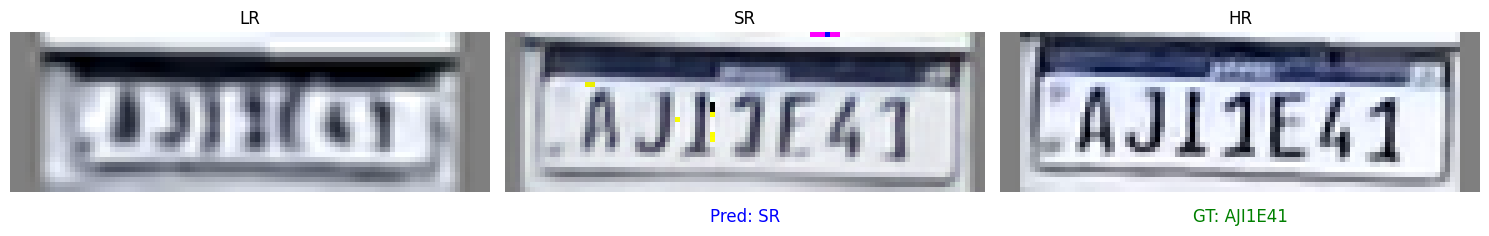
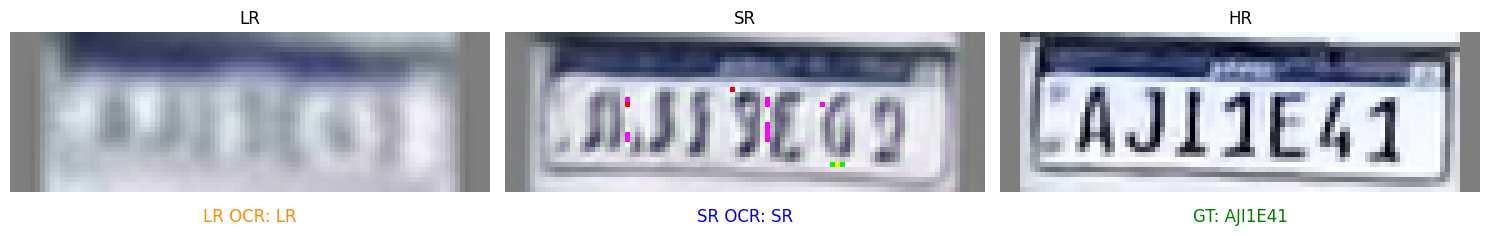
NRCD over-degradation fixed

diff --git a/datasets/wrappers.py b/datasets/wrappers.py
@@ -106,14 +106,105 @@ def get_pts(file_path):
         return json.load(j)['shapes'][0]['points']
 
 
+def _sample_projection_offsets(horizontal_angle_deg, vertical_angle_deg):
+    max_ratio_x = float(np.clip(np.tan(np.deg2rad(max(horizontal_angle_deg, 0.0))), 0.0, 0.55))
+    max_ratio_y = float(np.clip(np.tan(np.deg2rad(max(vertical_angle_deg, 0.0))), 0.0, 0.35))
+    if max_ratio_x <= 0 and max_ratio_y <= 0:
+        return None
+
+    left_inset = 0.0
+    right_inset = 0.0
+    top_inset = 0.0
+    bottom_inset = 0.0
+
+    if max_ratio_x > 0:
+        horizontal_mag = random.uniform(0.0, max_ratio_x)
+        if random.random() < 0.5:
+            left_inset = horizontal_mag
+        else:
+            right_inset = horizontal_mag
+
+    if max_ratio_y > 0:
+        vertical_mag = random.uniform(0.0, max_ratio_y)
+        if random.random() < 0.5:
+            top_inset = vertical_mag
+        else:
+            bottom_inset = vertical_mag
+
+    return np.array(
+        [
+            [left_inset, top_inset],
+            [1.0 - right_inset, top_inset],
+            [1.0 - right_inset, 1.0 - bottom_inset],
+            [left_inset, 1.0 - bottom_inset],
+        ],
+        dtype=np.float32,
+    )
+
+
+def _apply_projection_transform(img, mask, normalized_dst, fill_color):
+    if normalized_dst is None:
+        return img, mask
+
+    height, width = img.shape[:2]
+    if height <= 1 or width <= 1:
+        return img, mask
+
+    src = np.array(
+        [
+            [0, 0],
+            [width - 1, 0],
+            [width - 1, height - 1],
+            [0, height - 1],
+        ],
+        dtype=np.float32,
+    )
+    scale = np.array([width - 1, height - 1], dtype=np.float32)
+    dst = normalized_dst * scale
+
+    matrix = cv2.getPerspectiveTransform(src, dst.astype(np.float32))
+    warped_img = cv2.warpPerspective(
+        img,
+        matrix,
+        (width, height),
+        flags=cv2.INTER_LINEAR,
+        borderMode=cv2.BORDER_CONSTANT,
+        borderValue=fill_color,
+    )
+    warped_mask = cv2.warpPerspective(
+        mask,
+        matrix,
+        (width, height),
+        flags=cv2.INTER_NEAREST,
+        borderMode=cv2.BORDER_CONSTANT,
+        borderValue=0,
+    )
+    return warped_img, warped_mask
+
+
 class _BaseLPWrapper(Dataset):
-    def __init__(self, imgW, imgH, aug, image_aspect_ratio, background, scale=2, dataset=None):
+    def __init__(
+        self,
+        imgW,
+        imgH,
+        aug,
+        image_aspect_ratio,
+        background,
+        scale=2,
+        projection_prob=0.0,
+        projection_horizontal_angle=0.0,
+        projection_vertical_angle=0.0,
+        dataset=None,
+    ):
         self.imgW = imgW
         self.imgH = imgH
         self.scale = scale
         self.aug = aug
         self.ar = image_aspect_ratio
         self.background = eval(background) if isinstance(background, str) else background
+        self.projection_prob = float(projection_prob)
+        self.projection_horizontal_angle = float(projection_horizontal_angle)
+        self.projection_vertical_angle = float(projection_vertical_angle)
         self.dataset = dataset
 
     def __len__(self):
@@ -160,11 +251,23 @@ class SRPairedImageWrapper(_BaseLPWrapper):
         image_aspect_ratio,
         background,
         scale=2,
+        projection_prob=0.0,
+        projection_horizontal_angle=0.0,
+        projection_vertical_angle=0.0,
         rectify=False,
         dataset=None,
     ):
         super().__init__(
-            imgW, imgH, aug, image_aspect_ratio, background, scale=scale, dataset=dataset
+            imgW,
+            imgH,
+            aug,
+            image_aspect_ratio,
+            background,
+            scale=scale,
+            projection_prob=projection_prob,
+            projection_horizontal_angle=projection_horizontal_angle,
+            projection_vertical_angle=projection_vertical_angle,
+            dataset=dataset,
         )
         self.rectify = rectify
         self.transform = self._make_transform()
@@ -178,6 +281,18 @@ class SRPairedImageWrapper(_BaseLPWrapper):
         hr_padded, hr_mask, _, _ = pad_with_mask(
             hr_img, self.ar - 0.15, self.ar + 0.15, color=(127, 127, 127)
         )
+
+        if self.projection_prob > 0 and random.random() < self.projection_prob:
+            normalized_dst = _sample_projection_offsets(
+                self.projection_horizontal_angle,
+                self.projection_vertical_angle,
+            )
+            lr_padded, lr_mask = _apply_projection_transform(
+                lr_padded, lr_mask, normalized_dst, (127, 127, 127)
+            )
+            hr_padded, hr_mask = _apply_projection_transform(
+                hr_padded, hr_mask, normalized_dst, (127, 127, 127)
+            )
 
         augmented = self.transform(
             image=lr_padded, image2=hr_padded, mask=lr_mask, mask2=hr_mask
